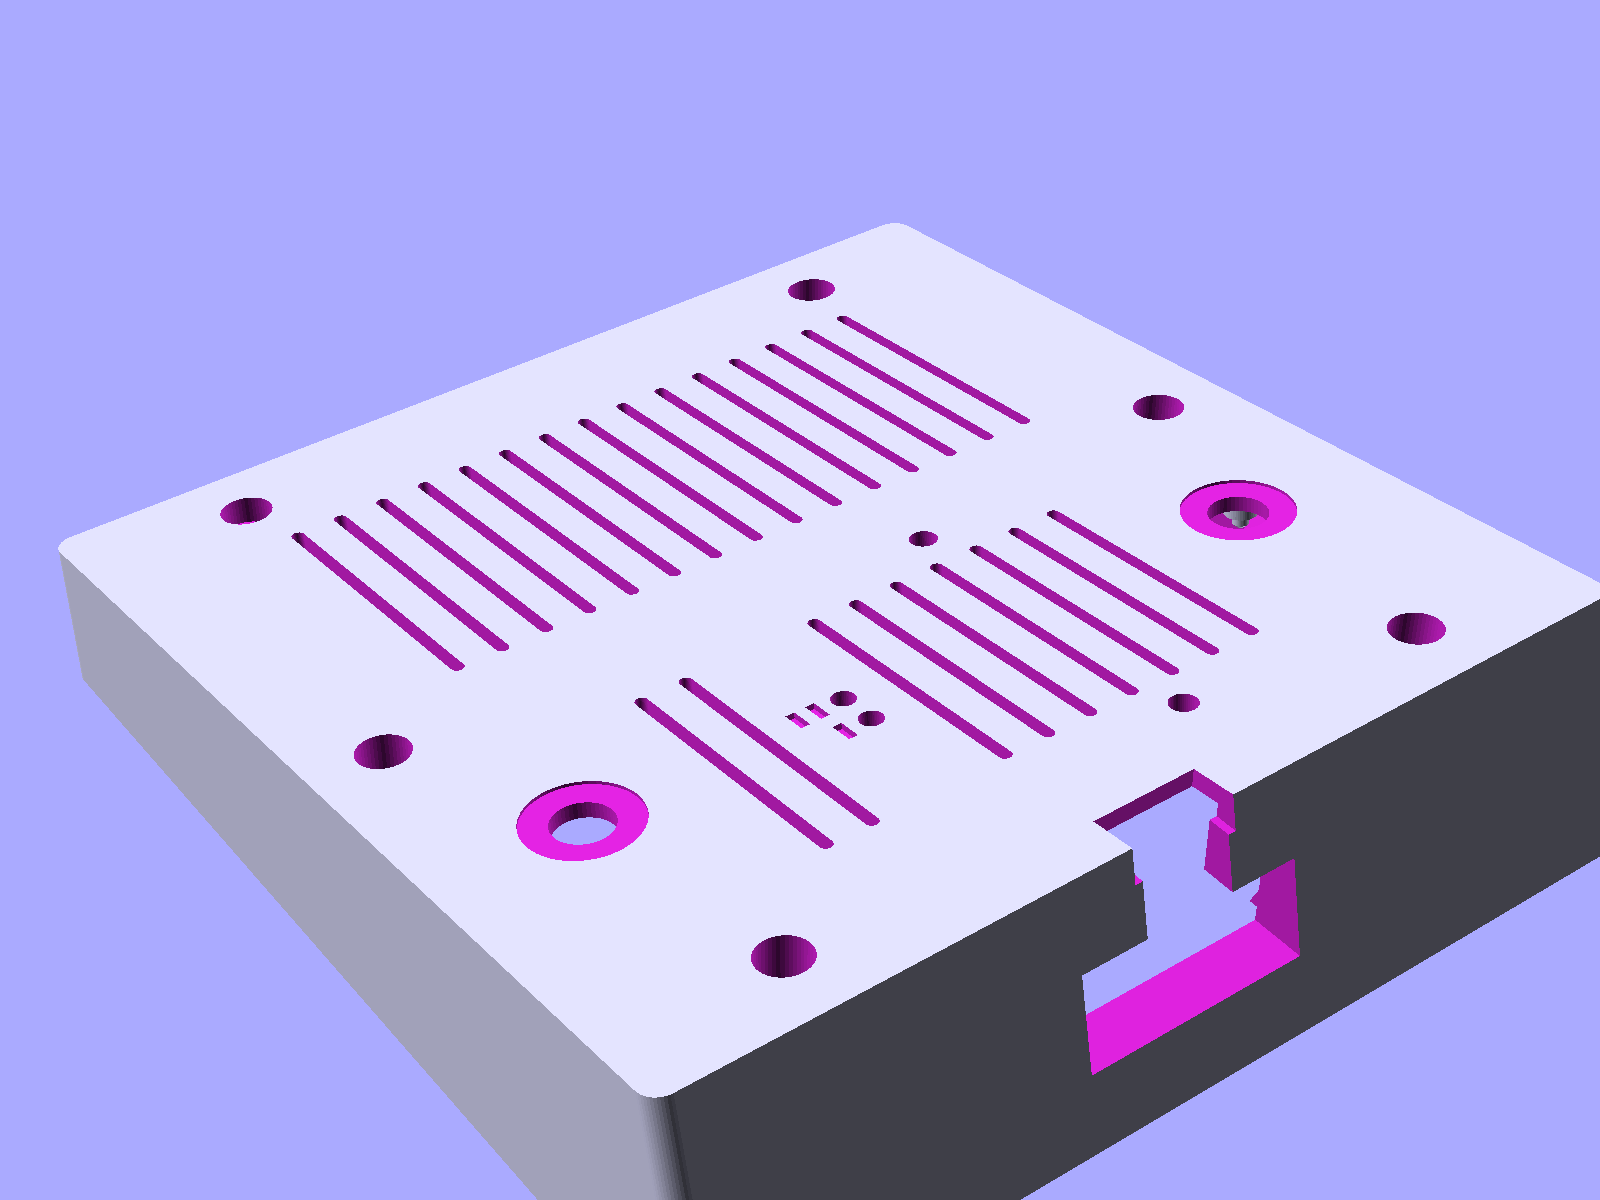
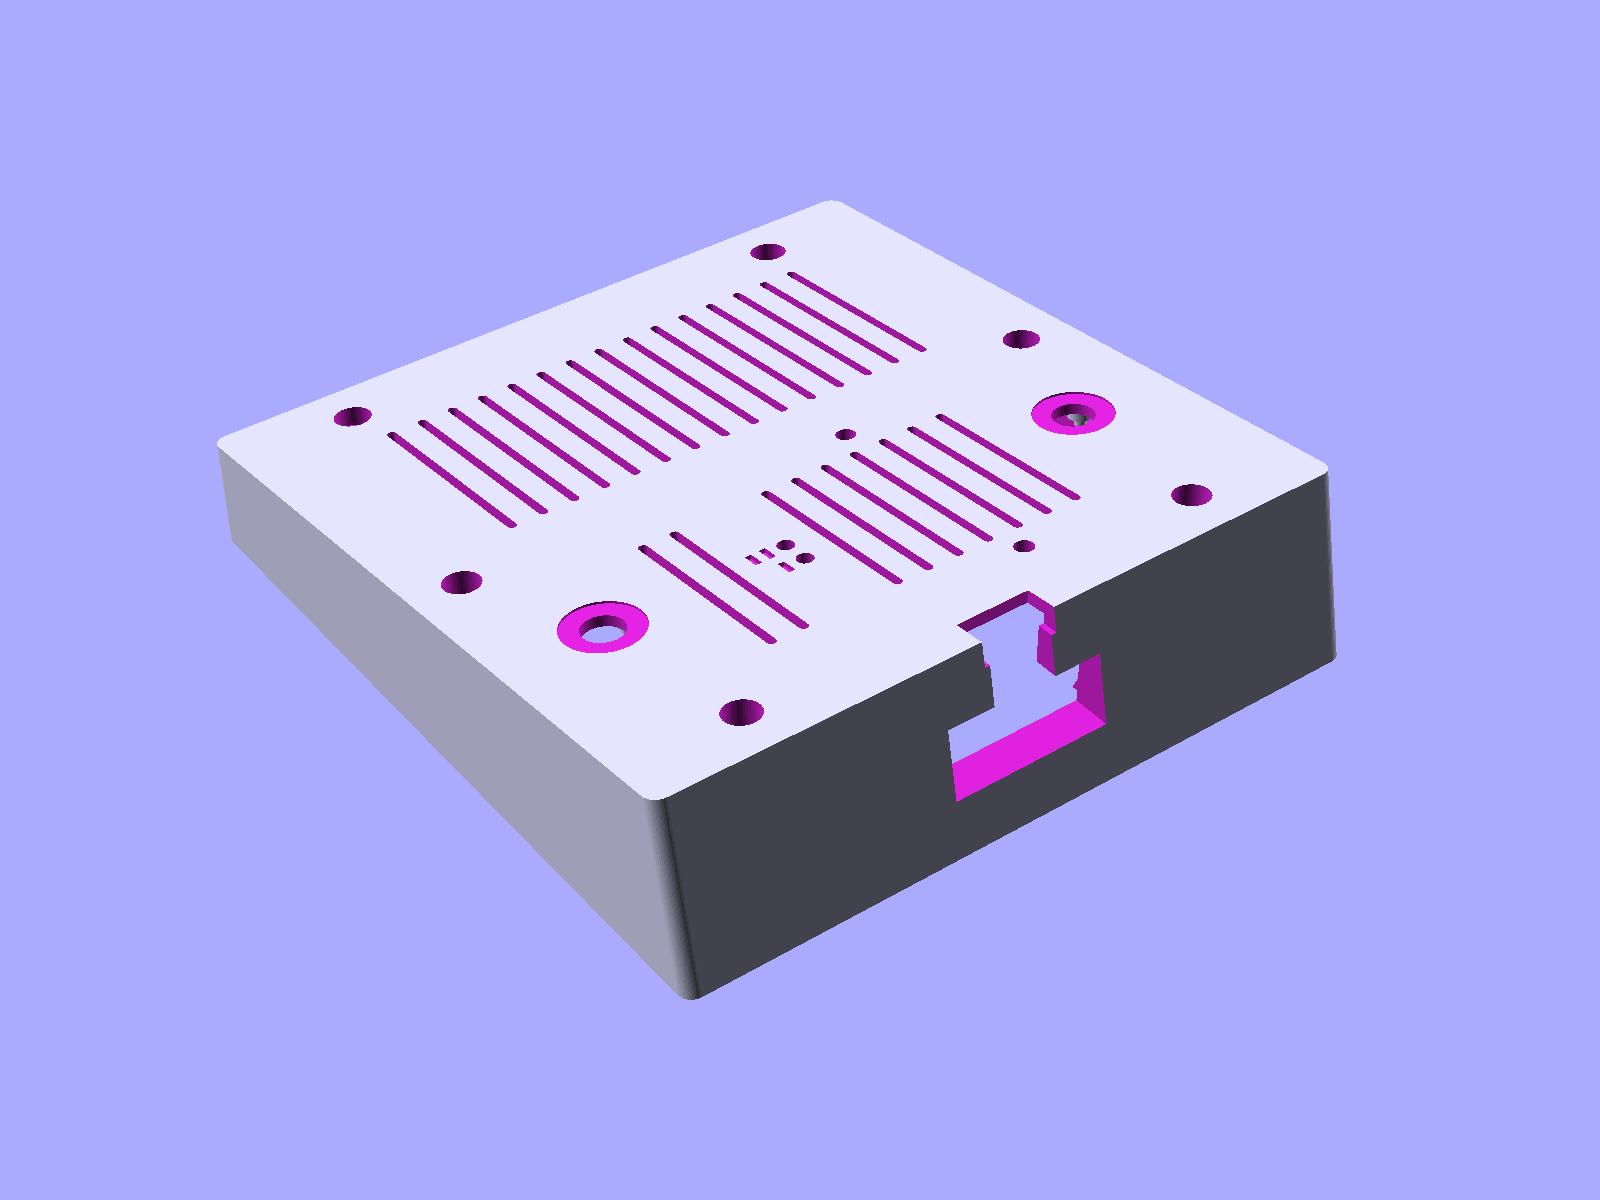
Re-render the v2 previews with the model centred and padded
The four v2 renders crossed the canvas edges; the cameras are pulled
back and re-aimed so the shell sits centred with a margin on every side.
The exact openscad render commands are now listed in the README so the
views can be reproduced. v1 renders untouched.

Claude-Session: https://claude.ai/code/session_01Cnri5RnKevyQ1RdwpxxSGL

diff --git a/enclosure/README.md b/enclosure/README.md
@@ -185,6 +185,15 @@ openscad -o output/v2/p64_enclosure_print.stl -D "part=\"print\"" src/p64_enclos
 openscad -o output/v2/p64_enclosure_service.stl -D "part=\"print\"" -D panel_clr=0.45 src/p64_enclosure_v2.scad
 ```
 
+The v2 renders are previews (no `--render`) with these cameras, 1600 x 1200, Metallic scheme:
+
+```
+openscad -o output/v2/render_back.png        -D "part=\"shell\""       --imgsize=1600,1200 --projection=p --colorscheme=Metallic --camera=-235,-327,307,0,-12,-8 src/p64_enclosure_v2.scad
+openscad -o output/v2/render_assembly.png    -D "part=\"assembly\""    --imgsize=1600,1200 --projection=p --colorscheme=Metallic --camera=-235,-327,307,0,-12,-8 src/p64_enclosure_v2.scad
+openscad -o output/v2/render_section_enc.png -D "part=\"section_enc\"" --imgsize=1600,1200 --projection=p --colorscheme=Metallic --camera=-252,-48,94,60,0,8 src/p64_enclosure_v2.scad
+openscad -o output/v2/render_print.png       -D "part=\"print\""       --imgsize=1600,1200 --projection=p --colorscheme=Metallic --camera=-270,-350,270,0,0,15 src/p64_enclosure_v2.scad
+```
+
 ## Sources
 
 - Panel drawing: https://github.com/waveshareteam/RGB-Matrix-Px-xx/tree/main/hardware/dimensions/RGB-Matrix-Pxx-64x64 (`RGB-Matrix-P2-64x64-2D.dwg`)
